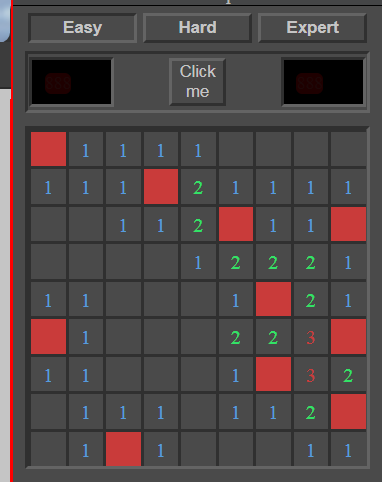
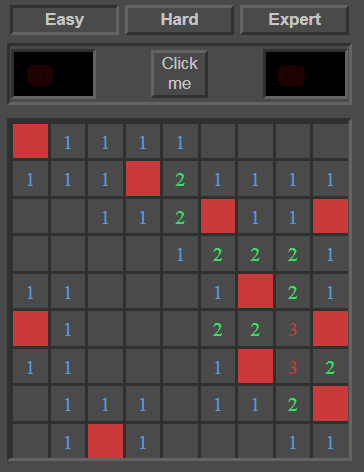
some fix

Changed region(s): [[0.0, 0.0, 0.967, 1.0], [0.9368, 0.7119, 0.967, 0.7415]]

diff --git a/src/style.css b/src/style.css
@@ -171,17 +171,6 @@ svg {
   margin: 10px;
 }
 
-.open {
-  border: solid #303030;
-  border-bottom: none;
-  border-right: none;
-  background-color: #4a4a4a;
-  width: 30px;
-  height: 30px;
-  text-align: center;
-  line-height: 1.8;
-  /*(box-shadow: inset 5px 5px 10px #FFF, inset -3px -3px 5px #777;*/
-}
 
 .mine-open {
   border: solid #303030;
@@ -233,20 +222,10 @@ svg {
   display: flex;
 }
 
-.one {
-  color: #569cdc;
-}
 
-.two {
-  color: #32e267;
-}
-
-.three {
-  color: #ca3b3a;
-}
-
-.four {
-  color: #c25be4;
+.row > *{
+  width: 30px;
+  height: 30px;
 }
 
 .mine {
@@ -254,8 +233,41 @@ svg {
 }
 
 .close {
-  border: 3px outset #808080;
-  width: 30px;
-  height: 30px;
+  border: 3px outset #808080;  
   background-color: #5f5f5f;
 }
+
+.open {
+  border: solid #303030;
+  border-bottom: none;
+  border-right: none;
+  background-color: #4a4a4a;
+  text-align: center;
+  line-height: 1.8;
+  /*(box-shadow: inset 5px 5px 10px #FFF, inset -3px -3px 5px #777;*/
+}
+
+
+span {
+  font-family: Arial, Helvetica, sans-serif;
+  font-size:large;
+  
+  /*(box-shadow: inset 5px 5px 10px #FFF, inset -3px -3px 5px #777;*/
+}
+
+.neighbors-1 {
+  color: #569cdc;
+}
+
+.neighbors-2 {
+  color: #32e267;
+}
+
+.neighbors-3 {
+  color: #ca3b3a;
+}
+
+.neighbors-4{
+  color: #c25be4;
+}
+

diff --git a/src/index.js b/src/index.js
@@ -136,10 +136,15 @@ function getCellClicked(row, col) {
   };
 }
 
+
+function init() {
+
+}
+
 function render() {
   const boardElement = document.getElementById("game");
   boardElement.innerHTML = "";
-
+  console.log(boardElement);
   board.forEach((row, ri) => {
     let rowDiv = document.createElement("div");
     rowDiv.classList.add("row");
@@ -155,7 +160,10 @@ function render() {
         } else {
           cellDiv.classList.add("open");
           if (cell.neighbors > 0 && !cell.isMine) {
-            cellDiv.innerHTML = cell.neighbors;
+            let neighborDiv = document.createElement("span");
+            neighborDiv.classList.add("neighbors" + "-" + cell.neighbors);
+            neighborDiv.innerHTML = cell.neighbors;
+            cellDiv.appendChild(neighborDiv);
           }
         }
       }

diff --git a/README.md b/README.md
@@ -92,13 +92,14 @@ function calculateNeighbors(row, col) {
 ## Example how it's work
 ![Image of Yaktocat](./img/startBoard.png)
 
+![Image of board](./img/board.png)
 ### we can have 3 5 or 8 neighbors
 
 #### Example to 3 neighbors
-![Image of Yaktocat](./img/3n.png)
+![Image of 3 neighbors](./img/31n.png)
 
 #### Example to 5 neighbors
-![Image of Yaktocat](./img/5n.png)
+![Image of 5 neighbors](./img/51n.png)
 
 #### Example to 8 neighbors
-![Image of Yaktocat](./img/81n.png)
+![Image of 8 neighbors](./img/81n.png)
